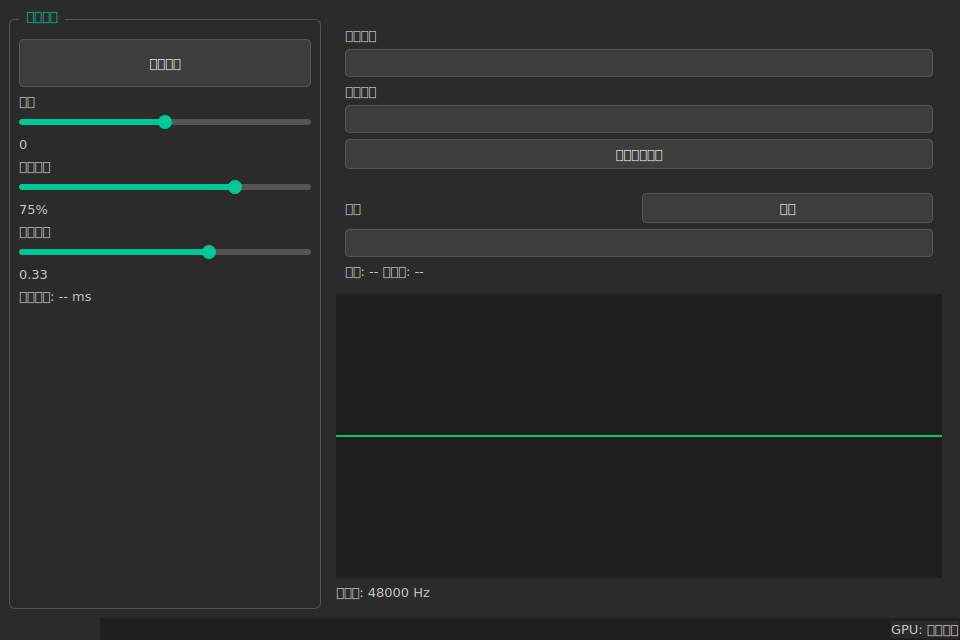
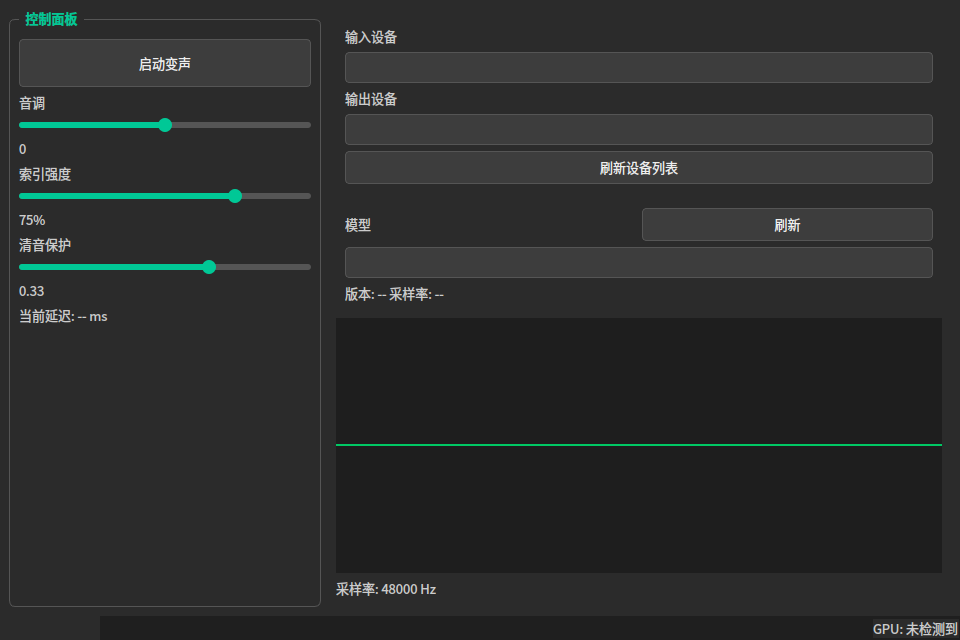
feat: 基于main创建v0.1分支

diff --git a/src/main.py b/src/main.py
@@ -7,15 +7,42 @@ if str(src_dir) not in sys.path:
     sys.path.insert(0, str(src_dir))
 
 from PyQt6.QtWidgets import QApplication
+from PyQt6.QtGui import QFont, QFontDatabase
 
 from gui.main_window import MainWindow
 from config.settings import ConfigManager
+
+
+def _set_cjk_font(app: QApplication):
+    preferred_families = [
+        "Noto Sans CJK SC",
+        "Noto Sans SC",
+        "WenQuanYi Micro Hei",
+        "WenQuanYi Zen Hei",
+        "Microsoft YaHei",
+        "PingFang SC",
+    ]
+    available = QFontDatabase.families()
+    chosen = None
+    for family in preferred_families:
+        if family in available:
+            chosen = family
+            break
+    if chosen:
+        font = QFont(chosen, 10)
+        font.setStyleHint(QFont.StyleHint.SansSerif)
+        app.setFont(font)
+        print(f"[Font] Using CJK font: {chosen}")
+    else:
+        print("[Font] No CJK font found, using system default")
 
 
 def main():
     app = QApplication(sys.argv)
     app.setApplicationName("Voice Changer")
     app.setApplicationVersion("0.1.0")
+
+    _set_cjk_font(app)
 
     # Load stylesheet if present
     qss_path = Path(__file__).parent.parent / "assets" / "style.qss"
